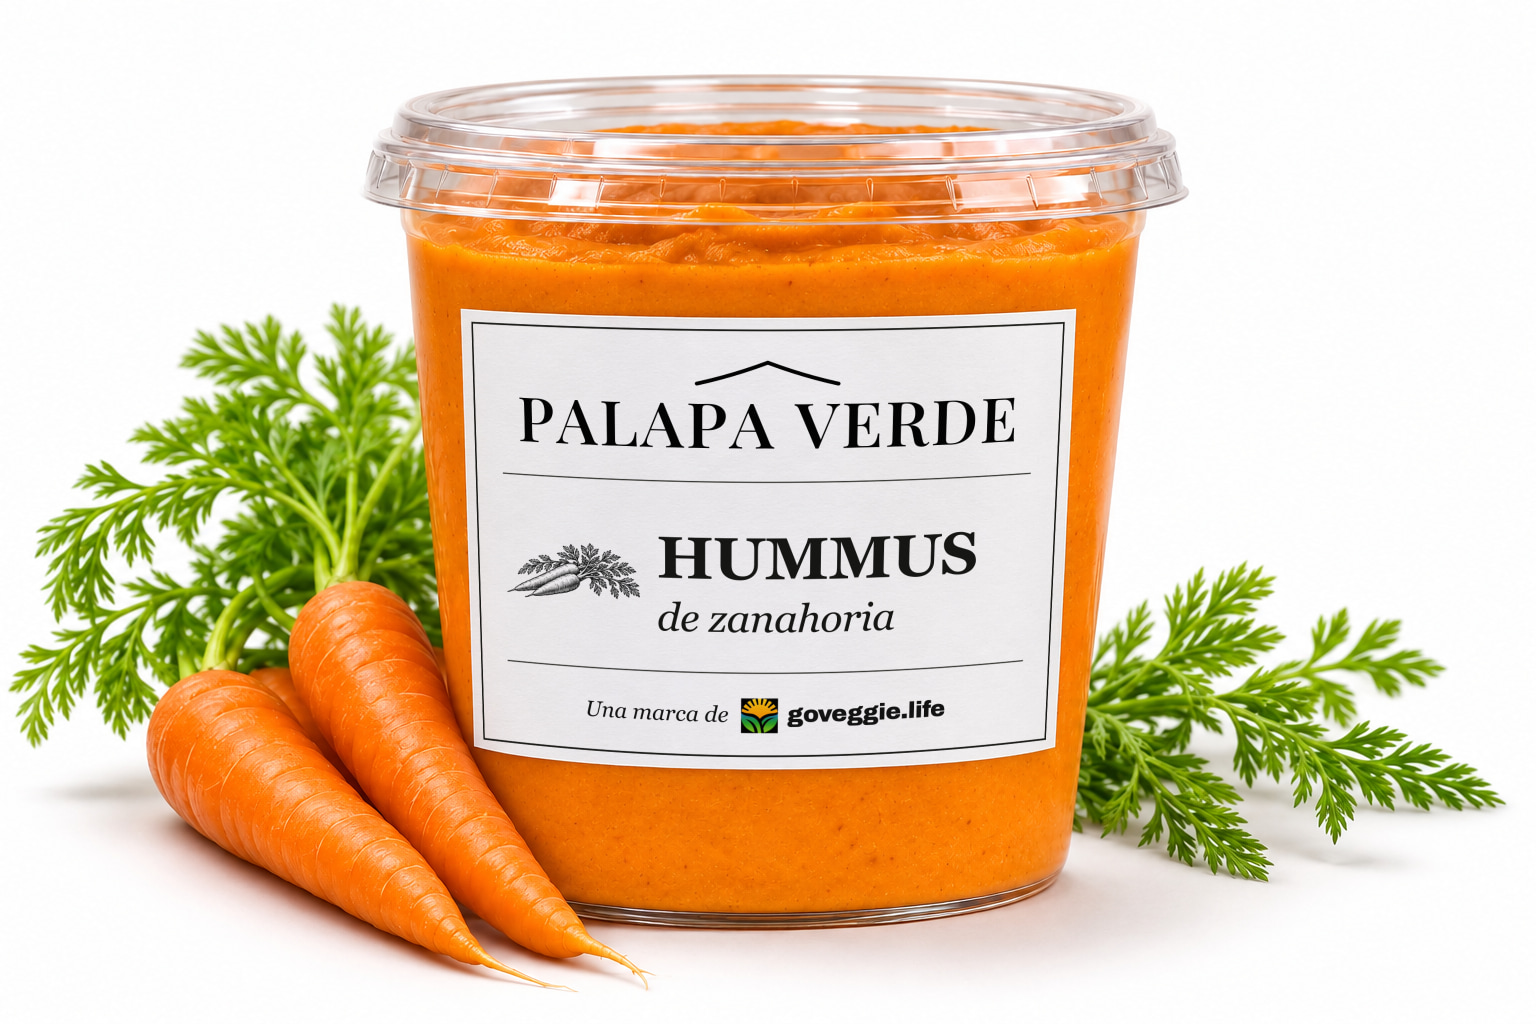
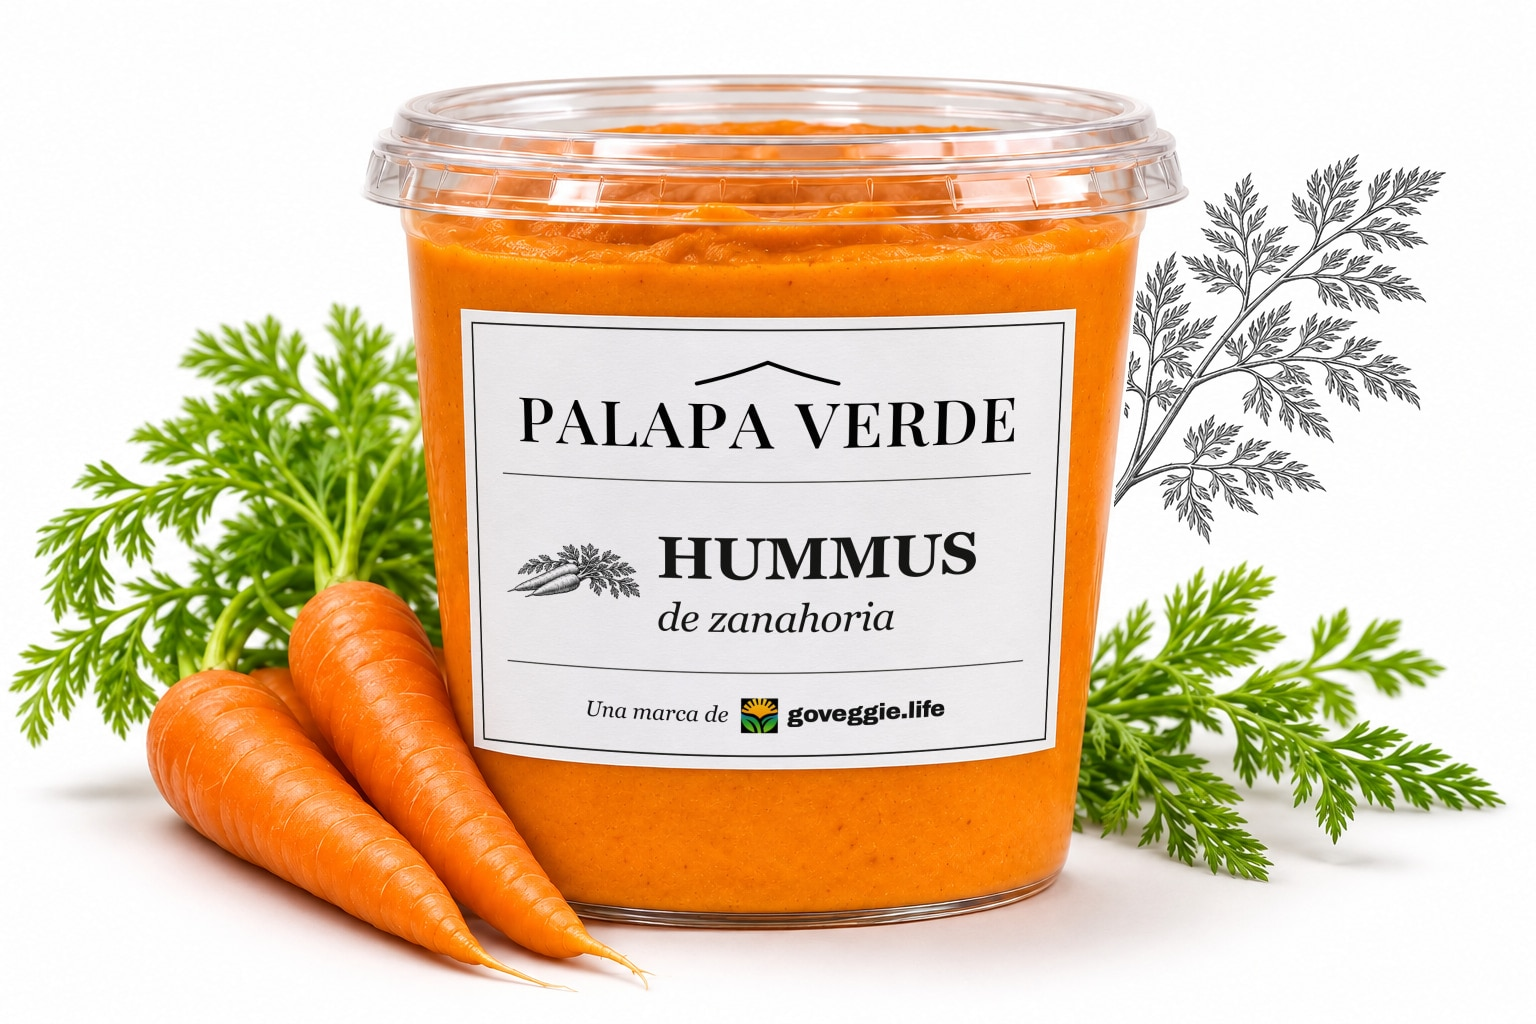
Match Palapa Verde kitchen and catalog illustrations to Go Veggie Life

Changed region(s): [[0.7188, 0.1562, 0.9375, 0.5312]]

diff --git a/palapa-verde/src/app/[locale]/page.tsx b/palapa-verde/src/app/[locale]/page.tsx
@@ -1,4 +1,5 @@
 import Image from "next/image";
+import { PROCESS_ART } from "@/content/process-art";
 import Link from "next/link";
 import { notFound } from "next/navigation";
 import { ProductCard } from "@/components/ProductCard";
@@ -59,7 +60,7 @@ export default async function HomePage({ params }: { params: Promise<{ locale: s
         </div>
         <figure className="hero-media">
           <Image
-            src="/media/hero-linea.jpg"
+            src="/media/linea-botanica.webp"
             alt={
               locale === "es"
                 ? "Los cinco productos Palapa Verde en su envase propuesto, junto a sus vegetales"
@@ -81,7 +82,7 @@ export default async function HomePage({ params }: { params: Promise<{ locale: s
         </h2>
         {STEPS.map((step, i) => (
           <div className="step" key={step}>
-            <Image src={`/media/proceso-${step}.jpg`} alt="" width={512} height={512} sizes="120px" />
+            <Image src={PROCESS_ART[step]} alt="" width={512} height={512} sizes="120px" />
             <div>
               <h3>
                 <span className="step-n">0{i + 1}</span> {h.steps[step].title}
@@ -104,7 +105,7 @@ export default async function HomePage({ params }: { params: Promise<{ locale: s
             <ProductCard key={product.id} product={product} locale={locale} priority={i < 2} />
           ))}
           <Link className="card card--line" href={`/${locale}/negocios`}>
-            <Image src="/media/proceso-frasco.jpg" alt="" width={512} height={512} sizes="200px" />
+            <Image src={PROCESS_ART.frasco} alt="" width={640} height={640} sizes="200px" />
             <span className="card-cat">{h.businessHeading}</span>
             <span className="card-line-title">{h.businessText}</span>
             <span className="card-cta arrow">{h.businessCta}</span>

diff --git a/palapa-verde/src/app/[locale]/hoteles-restaurantes/content.ts b/palapa-verde/src/app/[locale]/hoteles-restaurantes/content.ts
@@ -20,7 +20,7 @@ export const kitchenCopy: Record<Locale, KitchenCopy> = {
     intro: "Vegetales frescos de Go Veggie Life y preparaciones de Palapa Verde. Explore los formatos de prueba según lo que consume su cocina por servicio.",
     inquiry: "Preparar mi consulta",
     explore: "Ver formatos de prueba",
-    imageAlt: "Hummus servido con cuchara en una mesa de trabajo junto a vegetales frescos.",
+    imageAlt: "Un chef sirve hummus de zanahoria Palapa Verde con casabe.",
     imageCaption: "Propuesta de uso en cocina · Imagen ilustrativa",
     restaurant: {
       title: "Cocina a la carta",
@@ -44,7 +44,7 @@ export const kitchenCopy: Record<Locale, KitchenCopy> = {
     intro: "Fresh produce from Go Veggie Life and prepared foods from Palapa Verde. Explore trial packs based on how much your kitchen uses per service.",
     inquiry: "Prepare my enquiry",
     explore: "Explore trial packs",
-    imageAlt: "Hummus with a serving spoon on a kitchen worktop beside fresh vegetables.",
+    imageAlt: "A chef serves Palapa Verde carrot hummus with cassava flatbread.",
     imageCaption: "Kitchen serving suggestion · Illustrative image",
     restaurant: {
       title: "À la carte service",

diff --git a/palapa-verde/src/app/[locale]/hoteles-restaurantes/kitchen.module.css b/palapa-verde/src/app/[locale]/hoteles-restaurantes/kitchen.module.css
@@ -32,21 +32,21 @@
   font-weight: 650;
   text-underline-offset: 0.25em;
 }
-.heroPhoto {
+.heroArt {
   display: grid;
   grid-template-rows: 1fr auto;
   border-inline-start: var(--hairline);
   margin: 0;
   min-width: 0;
 }
-.heroPhoto img {
+.heroArt img {
   width: 100%;
   height: 100%;
   min-height: 0;
-  object-fit: cover;
+  object-fit: contain;
   object-position: center;
 }
-.heroPhoto figcaption {
+.heroArt figcaption {
   padding: 6px 13px;
   border-top: var(--hairline);
   color: var(--meta);
@@ -105,8 +105,8 @@
 .size { color: var(--verde); font-weight: 750; }
 @media (max-width: 760px) {
   .hero { grid-template-columns: 1fr; }
-  .heroPhoto { border-inline-start: 0; border-top: var(--hairline); }
-  .heroPhoto img { aspect-ratio: 2.2; }
+  .heroArt { border-inline-start: 0; border-top: var(--hairline); }
+  .heroArt img { height: auto; aspect-ratio: 3 / 2; }
   .services { grid-template-columns: 1fr; }
   .services section + section { border-inline-start: 0; border-top: var(--hairline); }
   .formatRow { grid-template-columns: 1fr; gap: 8px; }

diff --git a/palapa-verde/src/app/[locale]/hoteles-restaurantes/page.tsx b/palapa-verde/src/app/[locale]/hoteles-restaurantes/page.tsx
@@ -9,7 +9,7 @@ import styles from "./kitchen.module.css";
 
 type Props = { params: Promise<{ locale: string }> };
 const route = "/hoteles-restaurantes";
-const heroImage = "/media/cocina-profesional.jpg";
+const heroImage = "/media/cocina-grabado.webp";
 
 export async function generateMetadata({ params }: Props): Promise<Metadata> {
   const { locale } = await params;
@@ -34,7 +34,7 @@ export default async function ProfessionalKitchenPage({ params }: Props) {
             <a className={styles.jumpLink} href="#formatos">{t.explore}</a>
           </div>
         </div>
-        <figure className={styles.heroPhoto}>
+        <figure className={styles.heroArt}>
           <Image src={heroImage} alt={t.imageAlt} width={1536} height={1024} sizes="(max-width: 760px) 100vw, 50vw" preload />
           <figcaption>{t.imageCaption}</figcaption>
         </figure>

diff --git a/palapa-verde/src/app/[locale]/nosotros/page.tsx b/palapa-verde/src/app/[locale]/nosotros/page.tsx
@@ -1,5 +1,6 @@
 import type { Metadata } from "next";
 import Image from "next/image";
+import { PROCESS_ART } from "@/content/process-art";
 import { notFound } from "next/navigation";
 import { GO_VEGGIE_LIFE_URL, MANUFACTURER, relationship } from "@/content/brand";
 import { PRODUCE_PHOTOS } from "@/lib/commerce/brand-content";
@@ -58,7 +59,7 @@ export default async function AboutPage({ params }: Props) {
         </div>
         <div className="story-art" aria-hidden="true">
           {(["campo", "cocina", "frasco"] as const).map((s) => (
-            <Image key={s} src={`/media/proceso-${s}.jpg`} alt="" width={512} height={512} sizes="140px" />
+            <Image key={s} src={PROCESS_ART[s]} alt="" width={512} height={512} sizes="140px" />
           ))}
         </div>
       </section>

diff --git a/palapa-verde/src/app/[locale]/donde-comprar/page.tsx b/palapa-verde/src/app/[locale]/donde-comprar/page.tsx
@@ -1,5 +1,6 @@
 import type { Metadata } from "next";
 import Image from "next/image";
+import { PROCESS_ART } from "@/content/process-art";
 import Link from "next/link";
 import { notFound } from "next/navigation";
 import { STOCKISTS } from "@/content/stockists";
@@ -39,7 +40,7 @@ export default async function WhereToBuyPage({ params }: Props) {
               {t.home.cta}
             </Link>
           </div>
-          <Image className="prelaunch-art" src="/media/proceso-frasco.jpg" alt="" width={512} height={512} sizes="200px" />
+          <Image className="prelaunch-art" src={PROCESS_ART.frasco} alt="" width={640} height={640} sizes="200px" />
         </section>
       ) : (
         <section aria-label={w.title}>

diff --git a/palapa-verde/src/lib/site.ts b/palapa-verde/src/lib/site.ts
@@ -34,7 +34,7 @@ export function pageMetadata({ locale, path, title, description, image, noindex 
       url: `/${locale}${path}`,
       ...(title ? { title } : {}),
       ...(description ? { description } : {}),
-      images: [{ url: image ?? "/media/hero-linea.jpg", width: 1536, height: 1024 }],
+      images: [{ url: image ?? "/media/linea-botanica.webp", width: 1536, height: 1024 }],
     },
     ...(noindex ? { robots: { index: false, follow: true } } : {}),
   };

diff --git a/palapa-verde/src/app/[locale]/layout.tsx b/palapa-verde/src/app/[locale]/layout.tsx
@@ -46,7 +46,7 @@ export async function generateMetadata({ params }: Omit<LayoutProps, "children">
       locale: locale === "es" ? "es_DO" : "en_US",
       title: t.meta.title,
       description: t.meta.description,
-      images: [{ url: "/media/hero-linea.jpg", width: 1536, height: 1024 }],
+      images: [{ url: "/media/linea-botanica.webp", width: 1536, height: 1024 }],
     },
   };
 }

diff --git a/palapa-verde/src/content/process-art.ts b/palapa-verde/src/content/process-art.ts
@@ -1,0 +1,5 @@
+export const PROCESS_ART = {
+  campo: "/media/proceso-campo.jpg",
+  cocina: "/media/proceso-cocina.jpg",
+  frasco: "/media/proceso-frasco-rectangular.webp",
+} as const;

diff --git a/palapa-verde/docs/strategy/02-brand-relationship.md b/palapa-verde/docs/strategy/02-brand-relationship.md
@@ -8,23 +8,19 @@ The owner confirmed the brand relationship on 6 November 2026. Use **“Una marc
 
 The website uses the owned setting in src/content/brand.ts. MANUFACTURER and REGISTRATION_HOLDER remain separate, empty fields pending confirmation.
 
-The owner chose variant B, “Lekka palapa”, on 6 November 2026. The centered two-stroke roof spans 28% of the visible PALAPA VERDE wordmark. Place the Go Veggie Life endorsement directly below the name in smaller italic lettering, with the same letter size in Spanish and English. The Spanish endorsement spans 72% of the wordmark and the English one approximately 65%, with a softer ink tone than the name. Use the approved SVG in each language.
+The owner chose variant B, “Lekka palapa”, on 6 November 2026. The centered two-stroke roof spans 28% of the visible PALAPA VERDE wordmark. In the website header, place the Go Veggie Life endorsement directly below the name in smaller italic lettering, with the same letter size in Spanish and English. The Spanish endorsement spans 72% of the wordmark and the English one approximately 65%, with a softer ink tone than the name. Use the approved SVG in each language.
 
 ## Where the two sites link
 - Palapa Verde: the "Nosotros" relationship section, the home relationship block, the footer, and the business page (for fresh produce).
 - Go Veggie Life (separate task, root site): its footer already links to Palapa Verde. Recommended: a short "Palapa Verde" block on "Nosotros" or "Para supermercados" that uses the same confirmed wording.
 
-## Packaging label hierarchy (recommendation for the packaging task, not applied)
-1. Botanical engraving of the key vegetable (top of the arched label)
-2. **PALAPA VERDE** wordmark, the largest brand element
-3. Endorsement line, smaller and directly under the wordmark: only the confirmed wording above.
-   About 35–45% of the wordmark's cap height, never below the legal minimum legible size at print scale.
-   Use the official Go Veggie Life wordmark only if that is the approved lockup; otherwise set the text in the label serif.
-4. Rule
-5. Product name, as two lines: "HUMMUS / de ZANAHORIA"
-6. Short descriptor (approved only)
-7. Bottom band: net content · storage instruction (approved only)
-8. Back label: ingredients, allergens ("Contiene: …"), manufacturer name and address, lot/date, sanitary registration once issued, under NORDOM 53 review
+## Packaging label hierarchy
+
+Use a rectangular sticker with four square corners. The upper section carries the two-stroke roof and the Palapa Verde wordmark. Put the engraved ingredient beside the product name in the middle. At the bottom, set the endorsement with the original Go Veggie Life symbol and wordmark. Print dimensions and commercial fields require the approved pack and product data.
+
+## Website illustrations
+
+Use the public Go Veggie Life harvest, packing and supermarket illustrations as references for scenes. Draw people, tools and settings in fine graphite hatching on white. Use natural colour for the food. In catalogue visuals, pair a realistic package with a botanical engraving outside the label. Add the approved label from the source artwork after illustration, so the roof and parent-brand signature remain exact.
 
 ## Existing artwork
 

diff --git a/palapa-verde/docs/PROGRESS.md b/palapa-verde/docs/PROGRESS.md
@@ -112,6 +112,9 @@ Do nagłówka i stopki w obu językach dodano nowy znak Palapa Verde: dwie lekki
 
 6 listopada 2026 właściciel wybrał wariant B „Lekka palapa”. Daszek ma 28% optycznej szerokości nazwy Palapa Verde. Hiszpańska i angielska wersja mają mniejszy, wyśrodkowany podpis kursywą pod nazwą marki. Podpis ma łagodniejszy odcień zieleni i zajmuje 72% szerokości nazwy po hiszpańsku oraz około 65% po angielsku. Pliki SVG zawierają podpisy „Una marca de Go Veggie Life” i „A brand of Go Veggie Life”.
 
-Właściciel wskazał planszę z czterema przezroczystymi opakowaniami jako wzorzec stylistyczny. Etykiety mają jasne pole z łukiem i cienkim czarnym obrysem, rycinę głównego składnika, szeryfową nazwę produktu i czarny wariant B z małym podpisem Go Veggie Life. Kolor wnosi produkt i fotografia świeżych składników.
+Właściciel wskazał planszę z czterema przezroczystymi opakowaniami jako wzorzec stylistyczny. Właściciel następnie zatwierdził prostokątną etykietę o czterech prostych narożnikach, rycinę składnika obok nazwy i oryginalny znak Go Veggie Life na dole. Kolor wnosi produkt i fotografia świeżych składników.
 
 6 listopada 2026 — podgląd strefy Hoteles y restaurantes w ES/EN. Wspólne wejście dla świeżych warzyw Go Veggie Life i przetworów Palapa Verde, dostępne przez stronę główną i Negocios. Gramatury oznaczają propozycje do prób, a zapytanie klient sam udostępnia przedstawicielowi. Bezpośredni odbiorca sprzedażowy czeka na potwierdzenie w CONTACT.
+
+6 listopada 2026 — w strefie gastronomii obowiązuje styl publicznej strony Go Veggie Life: ludzie i otoczenie narysowani grafitową kreską, kolor skupiony na jedzeniu, białe tło. W ilustracji kucharz podaje hummus marchewkowy z casabe. Na pojemniku i na rycinie słoika widnieją zatwierdzone projekty etykiet. Witryna traktuje te obrazy jako ilustracje.
+Strona główna i pięć kart produktów łączą realistyczne projekty opakowań z osobnymi botanicznymi rycinami składników.
